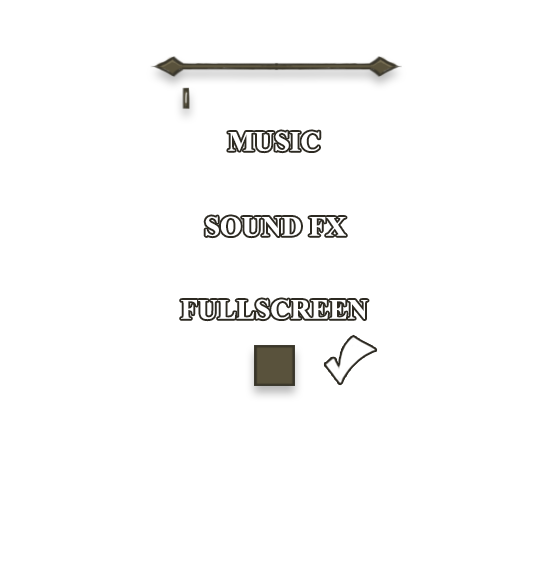
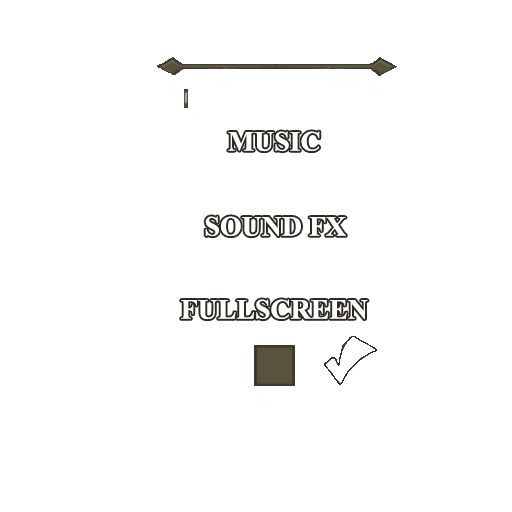
Options menu stuffs.

diff --git a/LOCC/OptionsMenuState.cpp b/LOCC/OptionsMenuState.cpp
@@ -16,12 +16,14 @@ COptionsMenuState::~COptionsMenuState(void)
 void COptionsMenuState::Enter(void)
 {
 	soundvolume = 100;
-	musicvolume = 100;
+	musicvolume = 0;
 	CStateStack::GetInstance()->SetRenderTopOnly(true);
+	fullscreen = false;
 	m_pBitmapFont = new CBitmapFont();
 	pTM = CSGD_TextureManager::GetInstance();
 	jcs_nImageID = pTM->LoadTexture(_T("Assets\\Menus\\options_menu.png"), D3DXCOLOR(255,255,255,255));
-	Scroll = pTM->LoadTexture(_T("Assets\\Menus\\scroll.png"));
+	Scroll = pTM->LoadTexture(_T("Assets\\Menus\\scroll.png"), D3DXCOLOR(255,255,255,255));
+	//CInputManager::GetInstance()->SetInMenu(true);
 }
 
 void COptionsMenuState::Exit(void)
@@ -29,6 +31,7 @@ void COptionsMenuState::Exit(void)
 	CStateStack::GetInstance()->SetRenderTopOnly(false);
 	delete m_pBitmapFont;
 	m_pBitmapFont = nullptr;
+	//CInputManager::GetInstance()->SetInMenu(false);
 }
 
 void COptionsMenuState::Input(INPUT_ENUM input)
@@ -42,7 +45,7 @@ void COptionsMenuState::Input(INPUT_ENUM input)
 		break;
 	case INPUT_DOWN:
 		{
-			if(selected != 2)
+			if(selected != 3)
 				selected++;
 			else
 				selected = 0;
@@ -53,28 +56,35 @@ void COptionsMenuState::Input(INPUT_ENUM input)
 			if(selected !=0)
 				selected--;
 			else
-				selected = 2;
+				selected = 3;
 			break;
 		}
 	case INPUT_LEFT:
 		{
 			if(selected == 0 && soundvolume != 0)
-				soundvolume--;
+				soundvolume-=5;
 			else if(selected == 1 && musicvolume != 0)
-				musicvolume--;
+				musicvolume-=5;
 			break;
 		}
 	case INPUT_RIGHT:
 		{
 			if(selected == 0 && soundvolume != 100)
-				soundvolume++;
+				soundvolume+=5;
 			else if(selected == 1 && musicvolume != 100)
-				musicvolume++;
+				musicvolume+=5;
 			break;
 		}
 	case INPUT_ACCEPT:
 		{
 			if(selected == 2)
+			{
+				if(fullscreen == false)
+					fullscreen = true;
+				else
+					fullscreen = false;
+			}
+			else if(selected == 3)
 				CStateStack::GetInstance()->Pop();
 			break;
 		}
@@ -88,50 +98,66 @@ void COptionsMenuState::Update(float fElapsedTime)
 
 void COptionsMenuState::Render(void)
 {
-	CSGD_Direct3D::GetInstance()->Clear(255,255,255);
+	CSGD_Direct3D::GetInstance()->Clear(100,200,100);
 	RECT* toprect = new RECT();
 	toprect->bottom = 392;
 	toprect->top = 198;
 	toprect->left = 15;
 	toprect->right = 537;
-	pTM->Draw(Scroll,15,112,1.44f,1.0f,toprect,0,0,0,D3DXCOLOR(255,255,255,255));
+	pTM->Draw(Scroll,25,100,1.44f,2.3f,toprect,0,0,0,D3DXCOLOR(255,255,255,255));
 	toprect->bottom = 113;
 	toprect->top = 0;
 	toprect->left = 0;
 	toprect->right = 555;
 	pTM->Draw(Scroll,0,0,1.45f,1.0f,toprect,0,0,0,D3DXCOLOR(255,255,255,255));
+	toprect->bottom = 584;
+	toprect->top = 472;
+	toprect->left = 2;
+	toprect->right = 557;
+	pTM->Draw(Scroll,0,487,1.45f,1.0f,toprect,0,0,0,D3DXCOLOR(255,255,255,255));
+	toprect->bottom = 77;
+	toprect->top = 56;
+	toprect->left = 152;
+	toprect->right = 402;
+	pTM->Draw(jcs_nImageID,275,170,1.0f,1.0f,toprect,0,0,0,D3DXCOLOR(255,255,255,255));
+	pTM->Draw(jcs_nImageID,275,270,1.0f,1.0f,toprect,0,0,0,D3DXCOLOR(255,255,255,255));
+	toprect->top = 89;
+	toprect->bottom = 108;
+	toprect->left = 184;
+	toprect->right = 188;
+	pTM->Draw(jcs_nImageID,303+int(1.86f*soundvolume),170,1.0f,1.0f,toprect,0,0,0,D3DXCOLOR(255,255,255,255));
+	pTM->Draw(jcs_nImageID,303+int(1.86f*musicvolume),270,1.0f,1.0f,toprect,0,0,0,D3DXCOLOR(255,255,255,255));
+	toprect->top = 345;
+	toprect->left = 254;
+	toprect->bottom = 386;
+	toprect->right = 295;
+	pTM->Draw(jcs_nImageID,350,370,1.0f,1.0f,toprect,0,0,0,D3DXCOLOR(255,255,255,255));
 	delete toprect;
 	toprect = nullptr;
 	ostringstream oss;
 	oss<<"Sound Volume";
 	if(selected == 0)
-	{
-		m_pBitmapFont->Print(oss.str().c_str(),230, 150,0.6f,D3DXCOLOR(150,150,0,255));
-	}
+		m_pBitmapFont->Print(oss.str().c_str(),275,110,0.6f,D3DXCOLOR(150,150,0,255));
 	else
-	{
-		m_pBitmapFont->Print(oss.str().c_str(),230, 150,0.6f,D3DXCOLOR(255,255,255,255));
-	}
+		m_pBitmapFont->Print(oss.str().c_str(),275,110,0.6f,D3DXCOLOR(255,255,255,255));
 	ostringstream moss;
 	moss<<"Music Volume";
 	if(selected == 1)
-	{
-		m_pBitmapFont->Print(moss.str().c_str(),330, 200,1.0f,D3DXCOLOR(150,150,0,255));
-	}
+		m_pBitmapFont->Print(moss.str().c_str(),278,210,0.6f,D3DXCOLOR(150,150,0,255));
 	else
-	{
-		m_pBitmapFont->Print(moss.str().c_str(),330, 200,1.0f,D3DXCOLOR(255,255,255,255));
-	}
+		m_pBitmapFont->Print(moss.str().c_str(),278,210,0.6f,D3DXCOLOR(255,255,255,255));
+	ostringstream sauce;
+	sauce<<"Fullscreen";
+	if(selected == 2)
+		m_pBitmapFont->Print(sauce.str().c_str(),295,310,0.6f,D3DXCOLOR(150,150,0,255));
+	else
+		m_pBitmapFont->Print(sauce.str().c_str(),295,310,0.6f,D3DXCOLOR(255,255,255,255));
 	ostringstream boss;
 	boss<<"Exit";
-	if(selected == 2)
-	{
-		m_pBitmapFont->Print(boss.str().c_str(),345, 250,1.0f,D3DXCOLOR(150,150,0,255));
-	}
+	if(selected == 3)
+		m_pBitmapFont->Print(boss.str().c_str(),350,440,0.6f,D3DXCOLOR(150,150,0,255));
 	else
-	{
-		m_pBitmapFont->Print(boss.str().c_str(),345, 250,1.0f,D3DXCOLOR(255,255,255,255));
-	}
+		m_pBitmapFont->Print(boss.str().c_str(),350,440,0.6f,D3DXCOLOR(255,255,255,255));
 }
 
 COptionsMenuState* COptionsMenuState::GetInstance()

diff --git a/LOCC/MainMenuState.cpp b/LOCC/MainMenuState.cpp
@@ -26,6 +26,7 @@ void CMainMenuState::Enter(void)
 	blueguyid = CSGD_TextureManager::GetInstance()->LoadTexture(_T("Assets\\Menus\\warrior_blue.png"),D3DXCOLOR(0,0,0,255));
 	redguyid = CSGD_TextureManager::GetInstance()->LoadTexture(_T("Assets\\Menus\\warrior_red.png"),D3DXCOLOR(0,0,0,255));
 	m_pBitmapFont = new CBitmapFont();
+	CInputManager::GetInstance()->SetInMenu(true);
 }
 
 void CMainMenuState::Exit(void)
@@ -33,6 +34,7 @@ void CMainMenuState::Exit(void)
 	delete m_pBitmapFont;
 	m_pBitmapFont = nullptr;
 	CStateStack::GetInstance()->SetRenderTopOnly(false);
+	CInputManager::GetInstance()->SetInMenu(false);
 }
 
 void CMainMenuState::Input(INPUT_ENUM input)

diff --git a/LOCC/BitmapFont.h b/LOCC/BitmapFont.h
@@ -581,7 +581,7 @@ public:
 				rSource.left = 18;
 				rSource.top = 474;
 				rSource.right = 53;
-				rSource.bottom = 514;
+				rSource.bottom = 512;
 				m_nCharWidth = rSource.right - rSource.left;
 				m_nCharHeight = rSource.bottom - rSource.top;
 				break;
@@ -641,7 +641,7 @@ public:
 				rSource.left = 452;
 				rSource.top = 474;
 				rSource.right = 488;
-				rSource.bottom = 514;
+				rSource.bottom = 512;
 				m_nCharWidth = rSource.right - rSource.left;
 				m_nCharHeight = rSource.bottom - rSource.top;
 				break;

diff --git a/LOCC/Game.cpp b/LOCC/Game.cpp
@@ -97,6 +97,7 @@ void CGame::Shutdown(void)
 	CStateStack::DeleteInstance();
 	CMessageSystem::DeleteInstance();
 	CTileManager::DeleteInstance();
+	CStateStack::GetInstance()->ClearStack();
 }
 
 CGame::CGame(void)

diff --git a/LOCC/OptionsMenuState.h b/LOCC/OptionsMenuState.h
@@ -19,6 +19,7 @@ private:
 	int musicvolume;
 	int soundvolume;
 	int selected;
+	bool fullscreen;
 	COptionsMenuState(void);
 	virtual ~COptionsMenuState(void);
 	COptionsMenuState(const COptionsMenuState&);
